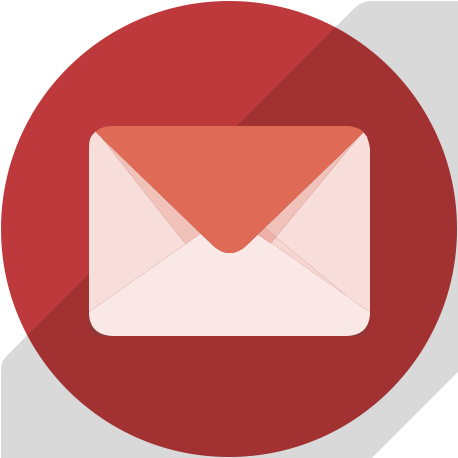
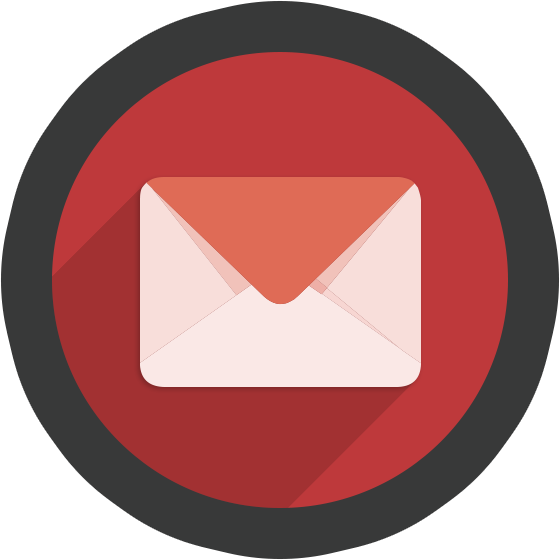
finished form

diff --git a/index.html b/index.html
@@ -41,7 +41,7 @@
 
 					<div class="header-content">
 						<h1>Welcome to Owls Team 2 portfolio!</h1>
-<p>Lorem ipsum dolor sit amet, consectetur adipisicing elit, sed do eiusmod tempor incididunt ut labore et dolore magna aliqua. </p>
+						<p>Lorem ipsum dolor sit amet, consectetur adipisicing elit, sed do eiusmod tempor incididunt ut labore et dolore magna aliqua. </p>
 						
 						<button class="cta-button">Read more</button>
 					</div>
@@ -101,94 +101,123 @@
 		<section class="pricing">
 			
 			<div class="pricing-text">
-			 <h4>A wireframe is the primitive skeleton of your website.</h4>
+				<h4>A wireframe is the primitive skeleton of your website.</h4>
 				<p>Pick a plan from below to get started! Already 20000+ websites and webprojects <br/>
-				have been successfully wireframed with HotGloo.</p>
-			</div>
-			
-			<div id="wrap">
-				<div id="wrapper">
-					<div id="purchase-text" class="free">
-						<button class="sign-up-btn">Sign Up</button>
+					have been successfully wireframed with HotGloo.</p>
+				</div>
+
+				<div id="wrap">
+					<div id="wrapper">
+						<div id="purchase-text" class="free">
+							<button class="sign-up-btn">Sign Up</button>
+						</div>
+						<div id="img">
+							<img src="img/free_plan.png" alt="free plan $0 per month">
+						</div>
+						<div id="plan-type" class="free">
+							<p>Free</p>
+						</div>
 					</div>
-					<div id="img">
-						<img src="img/free_plan.png" alt="free plan $0 per month">
+					<div id="wrapper">
+						<div id="purchase-text" class="profesh">
+							<button class="buy-btn">Buy Now</button>
+						</div>
+						<div id="img">
+							<img src="img/professional_plan.png" alt="professional plan $90 per month">
+						</div>
+						<div id="plan-type" class="profesh">
+							<p>Professional</p>
+						</div>
 					</div>
-					<div id="plan-type" class="free">
-						<p>Free</p>
+					<div id="wrapper">
+						<div id="purchase-text" class="enterprise">
+							<button class="buy-now-btn">Buy Now</button>
+						</div>
+						<div id="img">
+							<img src="img/enterprise_plan.png" alt="enterprise plan $90 per month">
+						</div>
+						<div id="plan-type" class="enterprise">
+							<p>Enterprise</p>
+						</div>
 					</div>
 				</div>
-				<div id="wrapper">
-					<div id="purchase-text" class="profesh">
-						<button class="buy-btn">Buy Now</button>
+
+			</section>
+			<!-- pricing ends-->
+
+			<section class="spacer">
+				A wireframe is the primitive skeleton of your website.
+			</section>
+			<!-- spacer -->
+
+			<section class="product-video">
+				<a href="#"><i class="	fa fa-play-circle-o" aria-hidden="true"></i></a>
+			</section>
+			<!-- product-video -->
+
+
+			<section class="contact-form">
+
+				<img src="img/mail-icon.png" alt="mail icon" class="mail-icon">
+
+				<form action="/my-handling-form-page" method="post" class="container">
+
+					<div class="form-left">
+
+						<div class="form-user_name">
+							<label for="name">Name: <span>*</span></label>
+							<input type="text" id="name" name="user_name">
+						</div><!-- form-user_name -->
+
+						<div class="form-user_mail">
+							<label for="mail">E-mail: <span>*</span></label>
+							<input type="email" id="mail" name="user_mail">
+						</div><!-- form-user_mail -->
+
+					</div><!-- form-left -->
+
+					<div class="form-right">
+						<label for="msg">Message: <span>*</span></label>
+						<textarea id="msg" name="user_message"></textarea>
+					</div><!-- form-right -->
+
+					
+				</form>
+				<div class="form-button-wrapper container">
+					<button class="form-button">Send</button>
+				</div><!-- form-button-wrapper -->
+
+			</section>
+			<!-- contact-form -->
+
+
+			<footer>
+
+				<div class="footer-icon">
+
+					<a href="#" class="flatmate-footer-logo"><img src="img/fmlogo-icon.png" alt="logo">Flat Mate
+						<pre> | <span class="design-by">Designed by WWW.CSSAUTHOR.COM </span> </pre>
+					</a>
+
+					<div class="footer-social-icon">
+						<a href="#"><i class="fa fa-facebook footer-icon-color" aria-hidden="true"></i> </a>
 					</div>
-					<div id="img">
-						<img src="img/professional_plan.png" alt="professional plan $90 per month">
+
+					<div class="footer-social-icon">
+						<a href="#"><i class="fa fa-twitter footer-icon-color" aria-hidden="true"></i> </a>
 					</div>
-					<div id="plan-type" class="profesh">
-						<p>Professional</p>
-					</div>
+
 				</div>
-				<div id="wrapper">
-					<div id="purchase-text" class="enterprise">
-						<button class="buy-now-btn">Buy Now</button>
-					</div>
-					<div id="img">
-						<img src="img/enterprise_plan.png" alt="enterprise plan $90 per month">
-					</div>
-					<div id="plan-type" class="enterprise">
-						<p>Enterprise</p>
-					</div>
-				</div>
-			</div>
-			
+				<!-- footer-icon -->
+
+			</footer>
+			<!-- footer -->
+
 		</section>
-		<!-- pricing ends-->
-
-		<section class="spacer">
-			A wireframe is the primitive skeleton of your website.
-		</section>
-		<!-- spacer -->
-
-		<section class="product-video">
-			<a href="#"><i class="	fa fa-play-circle-o" aria-hidden="true"></i></a>
-		</section>
-		<!-- product-video -->
-
-
-		<section class="contact">
-			<img src="img/mail-icon.png" alt="mail icon" class="mail-icon">
-		</section>
-		<!-- page-contact -->
-
-
-		<footer>
-
-			<div class="footer-icon">
-
-				<a href="#" class="flatmate-footer-logo"><img src="img/fmlogo-icon.png" alt="logo">Flat Mate
-					<pre> | <span class="design-by">Designed by WWW.CSSAUTHOR.COM </span> </pre>
-				</a>
-
-				<div class="footer-social-icon">
-					<a href="#"><i class="fa fa-facebook footer-icon-color" aria-hidden="true"></i> </a>
-				</div>
-				
-				<div class="footer-social-icon">
-					<a href="#"><i class="fa fa-twitter footer-icon-color" aria-hidden="true"></i> </a>
-				</div>
-				
-			</div>
-			<!-- footer-icon -->
-
-		</footer>
-		<!-- footer -->
-
-	</section>
-	<!-- page-wrapper -->
+		<!-- page-wrapper -->
 
 
 
-</body>
+	</body>
 
-</html>
+	</html>

diff --git a/styles.css b/styles.css
@@ -48,7 +48,7 @@ HEADER
 
 header {
 	background-color: #455469;
-	background: linear-gradient(rgba(69, 84, 105, 0.75), rgba(34, 34, 34, 0.75)), url(img/header-bg.jpg);
+	background: linear-gradient(rgba(78, 93, 113, 0.95), rgba(78, 93, 113, 0.95)), url(img/header-bg.jpg);
 	background-size: cover;
 	padding-top: 40px;
 	padding-bottom: 240px;
@@ -85,6 +85,7 @@ header {
 	padding: 8px 16px;
 	cursor: pointer;
 	outline: none;
+	transition: all ease 0.4s;	
 }
 
 .login-button:hover {
@@ -173,6 +174,7 @@ PRODUCT SECTION
 	margin: 48px 0;
 	border-radius: 10em;
 	border: 1px solid #52ad81;
+	transition: all ease 0.4s;
 }
 
 .product-social-icons a:first-child {
@@ -235,6 +237,7 @@ SLIDER
 	margin: 48px 0;
 	border-radius: 10em;
 	border: 1px solid #fff;
+	transition: all ease 0.4s;
 }
 
 .slider-control:hover {
@@ -389,6 +392,7 @@ div#plan-type {
 /*----------------------
 PRODUCT VIDEO
 ----------------------*/
+
 .product-video{
 	display: flex;
 	justify-content: center;
@@ -426,17 +430,102 @@ opacity: 0.8;
 /*----------------------
 CONTACT
 ----------------------*/
-.contact {
+
+.contact-form {
+	text-align: center;
+	background-color: #2d3136;
+	padding-top: 80px;
+	padding-bottom: 80px;	
+}
+
+.mail-icon {
+	max-width: 250px;
+}
+
+form {
 	display: flex;
 	justify-content: center;
+	padding-top: 80px;
 }
-.mail-icon {
-	height: 150px;
-	width: 150px;
-	margin-top: 5%;
-	border: 20px solid #383939;
-	border-radius: 50%;
-	
+
+.form-left {
+	margin-right: 120px;
+}
+
+.form-left > div {
+	margin-bottom: 48px;
+}
+
+.form-right,
+.form-user_name,
+.form-user_mail 
+{
+	display: flex;
+	flex-direction: column;
+	text-align: left;
+}
+
+.form-right label {
+	margin-bottom: 15px;
+}
+
+label {
+	color: #d7d7d7;
+	font-size: 30px;
+	margin-bottom: 15px;
+}
+
+label span {
+	color: #be393b;
+}
+
+input, textarea {
+	min-width: 300px;
+	font-family: Roboto, sans-serif;
+	font-size: 26px;
+	color: #d7d7d7;
+	background-color: #2d3136;
+	border: 1px solid #4c4f53;
+	border-radius: 5px;
+	outline: none;
+	transition: all ease 0.4s;
+}
+
+input {
+	padding: 16px 15px ;
+}
+
+textarea {
+	min-height: 220px;
+	min-width: 400px;
+}
+
+input:focus,
+textarea:focus {
+	border-color: #be393b; 
+}
+
+.form-button-wrapper {
+	text-align: right;
+}
+
+
+.form-button {
+	margin-top: 30px;
+	margin-right: 80px;
+	font-size: 32px;
+	color: #c9ced7;
+	background-color: #be393b;
+	border: 0;
+	border-radius: 10px;
+	padding: 16px 40px;
+	cursor: pointer;
+	outline: none;
+	transition: all ease 0.4s;
+}
+
+.form-button:hover {
+	background-color: #860000;
 }
 
 
@@ -469,6 +558,7 @@ FOOTER
 	height: 40px;
 	border-radius: 100%;
 	border: 1px solid #656566;
+	transition: all ease 0.4s;
 	/* margin: auto 10px; */
 }
 
